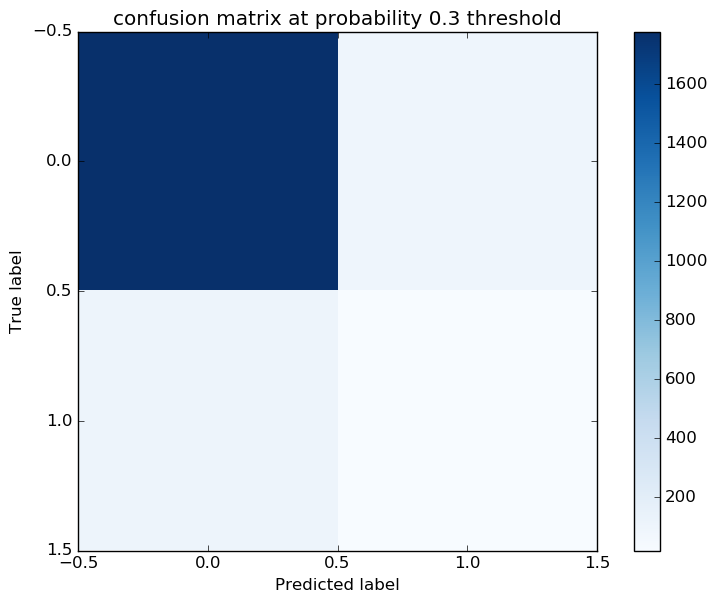
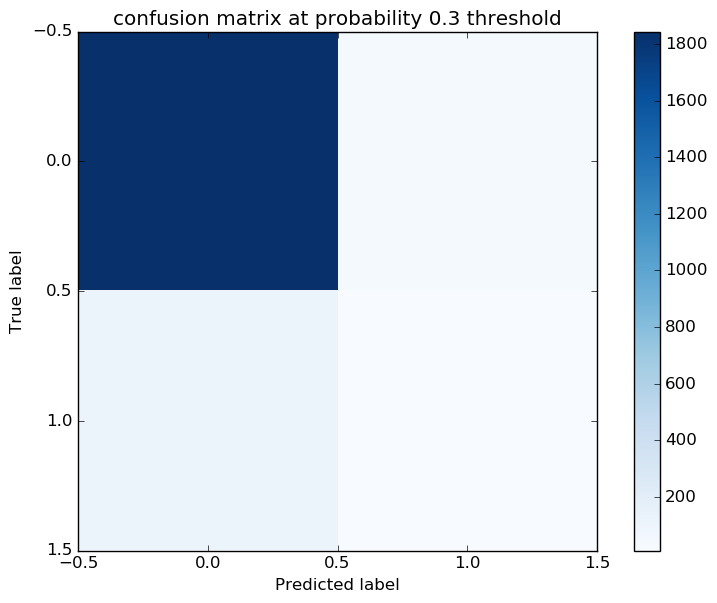
include figs in md

diff --git a/Reports/wk_G10_allFeatures_3_DT.md b/Reports/wk_G10_allFeatures_3_DT.md
@@ -9,14 +9,14 @@ weekly update Grade 10 model (xc)
 * train cohorts: 2008, 2009, 2010
 	 * 96 postive examples, 3046 negative examples
 * cross-validation scheme: leave cohort out
-	 * searching criterion in gini, entropy
-	 * chose criterion = entropy
 	 * searching max_features in sqrt, log2
 	 * chose max_features = log2
-	 * searching max_depth in 1, 5, 10, 20, 50, 100
-	 * chose max_depth = 100
 	 * searching min_samples_split in 2, 5, 10
 	 * chose min_samples_split = 2
+	 * searching criterion in gini, entropy
+	 * chose criterion = gini
+	 * searching max_depth in 1, 5, 10, 20, 50, 100
+	 * chose max_depth = 100
 	 * using custom_precision_3
 * imputation strategy: median plus dummies
 * scaling strategy: robust
@@ -24,30 +24,30 @@ weekly update Grade 10 model (xc)
 ### Features Used
 * grades
 	 * gpa_gr_9
+* snapshots
+	 * special_ed_gr_9
+	 * disability_gr_9
+	 * limited_english_gr_9
+	 * days_absent_unexcused_gr_9
+	 * iss_gr_9
+	 * discipline_incidents_gr_9
+	 * disadvantagement_gr_9
+	 * status_gr_9
+	 * days_absent_gr_9
+	 * oss_gr_9
+	 * district_gr_9
+	 * gifted_gr_9
 * oaa_normalized
 	 * eighth_science_normalized
-	 * eighth_math_normalized
 	 * eighth_read_normalized
-* snapshots
-	 * limited_english_gr_9
-	 * disadvantagement_gr_9
-	 * gifted_gr_9
-	 * special_ed_gr_9
-	 * oss_gr_9
-	 * days_absent_gr_9
-	 * days_absent_unexcused_gr_9
-	 * status_gr_9
-	 * district_gr_9
-	 * discipline_incidents_gr_9
-	 * iss_gr_9
-	 * disability_gr_9
+	 * eighth_math_normalized
 * demographics
-	 * ethnicity
 	 * gender
+	 * ethnicity
 
 ### Performance Metrics
-on average, model run in 0.04 seconds (72 times) <br/>precision on top 15%: 0.06371 <br/>precision on top 10%: 0.06371 <br/>precision on top 5%: 0.1639 <br/>recall on top 15%: 1.0 <br/>recall on top 10%: 1.0 <br/>recall on top 5%: 0.1562 <br/>AUC value is: 0.551 <br/>top features: gpa_gr_9 (0.22), eighth_read_normalized (0.13), days_absent_gr_9 (0.11)
-![figs/wk_G10_allFeatures_3_DT_confusion_mat_0.3.png](wk_G10_allFeatures_3_DT_confusion_mat_0.3.png)
-![figs/wk_G10_allFeatures_3_DT_pr_vs_threshold.png](wk_G10_allFeatures_3_DT_pr_vs_threshold.png)
-![figs/wk_G10_allFeatures_3_DT_score_dist.png](wk_G10_allFeatures_3_DT_score_dist.png)
-![figs/wk_G10_allFeatures_3_DT_precision_recall_at_k.png](wk_G10_allFeatures_3_DT_precision_recall_at_k.png)
+on average, model run in 0.04 seconds (72 times) <br/>precision on top 15%: 0.06371 <br/>precision on top 10%: 0.06371 <br/>precision on top 5%: 0.06371 <br/>recall on top 15%: 1.0 <br/>recall on top 10%: 1.0 <br/>recall on top 5%: 1.0 <br/>AUC value is: 0.5295 <br/>top features: gpa_gr_9 (0.13), eighth_read_normalized (0.13), days_absent_gr_9 (0.11)
+![wk_G10_allFeatures_3_DT_confusion_mat_0.3.png](figs/wk_G10_allFeatures_3_DT_confusion_mat_0.3.png)
+![wk_G10_allFeatures_3_DT_pr_vs_threshold.png](figs/wk_G10_allFeatures_3_DT_pr_vs_threshold.png)
+![wk_G10_allFeatures_3_DT_score_dist.png](figs/wk_G10_allFeatures_3_DT_score_dist.png)
+![wk_G10_allFeatures_3_DT_precision_recall_at_k.png](figs/wk_G10_allFeatures_3_DT_precision_recall_at_k.png)

diff --git a/Reports/wk_G10_allFeatures_3_logit.md b/Reports/wk_G10_allFeatures_3_logit.md
@@ -20,30 +20,30 @@ weekly update Grade 10 model (xc)
 ### Features Used
 * grades
 	 * gpa_gr_9
+* snapshots
+	 * special_ed_gr_9
+	 * disability_gr_9
+	 * limited_english_gr_9
+	 * days_absent_unexcused_gr_9
+	 * iss_gr_9
+	 * discipline_incidents_gr_9
+	 * disadvantagement_gr_9
+	 * status_gr_9
+	 * days_absent_gr_9
+	 * oss_gr_9
+	 * district_gr_9
+	 * gifted_gr_9
 * oaa_normalized
 	 * eighth_science_normalized
-	 * eighth_math_normalized
 	 * eighth_read_normalized
-* snapshots
-	 * limited_english_gr_9
-	 * disadvantagement_gr_9
-	 * gifted_gr_9
-	 * special_ed_gr_9
-	 * oss_gr_9
-	 * days_absent_gr_9
-	 * days_absent_unexcused_gr_9
-	 * status_gr_9
-	 * district_gr_9
-	 * discipline_incidents_gr_9
-	 * iss_gr_9
-	 * disability_gr_9
+	 * eighth_math_normalized
 * demographics
-	 * ethnicity
 	 * gender
+	 * ethnicity
 
 ### Performance Metrics
-on average, model run in 0.12 seconds (18 times) <br/>precision on top 15%: 0.06371 <br/>precision on top 10%: 0.06371 <br/>precision on top 5%: 0.06371 <br/>recall on top 15%: 1.0 <br/>recall on top 10%: 1.0 <br/>recall on top 5%: 1.0 <br/>AUC value is: 0.5 <br/>top features: limited_english_gr_9_L (0.0), disadvantagement_gr_9_academic (0.0), disadvantagement_gr_9_both (0.0)
-![figs/wk_G10_allFeatures_3_logit_confusion_mat_0.3.png](wk_G10_allFeatures_3_logit_confusion_mat_0.3.png)
-![figs/wk_G10_allFeatures_3_logit_score_dist.png](wk_G10_allFeatures_3_logit_score_dist.png)
-![figs/wk_G10_allFeatures_3_logit_pr_vs_threshold.png](wk_G10_allFeatures_3_logit_pr_vs_threshold.png)
-![figs/wk_G10_allFeatures_3_logit_precision_recall_at_k.png](wk_G10_allFeatures_3_logit_precision_recall_at_k.png)
+on average, model run in 0.13 seconds (18 times) <br/>precision on top 15%: 0.06371 <br/>precision on top 10%: 0.06371 <br/>precision on top 5%: 0.06371 <br/>recall on top 15%: 1.0 <br/>recall on top 10%: 1.0 <br/>recall on top 5%: 1.0 <br/>AUC value is: 0.5 <br/>top features: disability_gr_9_autism (0.0), disability_gr_9_cognitive disability (0.0), disability_gr_9_deafness (0.0)
+![wk_G10_allFeatures_3_logit_confusion_mat_0.3.png](figs/wk_G10_allFeatures_3_logit_confusion_mat_0.3.png)
+![wk_G10_allFeatures_3_logit_score_dist.png](figs/wk_G10_allFeatures_3_logit_score_dist.png)
+![wk_G10_allFeatures_3_logit_pr_vs_threshold.png](figs/wk_G10_allFeatures_3_logit_pr_vs_threshold.png)
+![wk_G10_allFeatures_3_logit_precision_recall_at_k.png](figs/wk_G10_allFeatures_3_logit_precision_recall_at_k.png)
